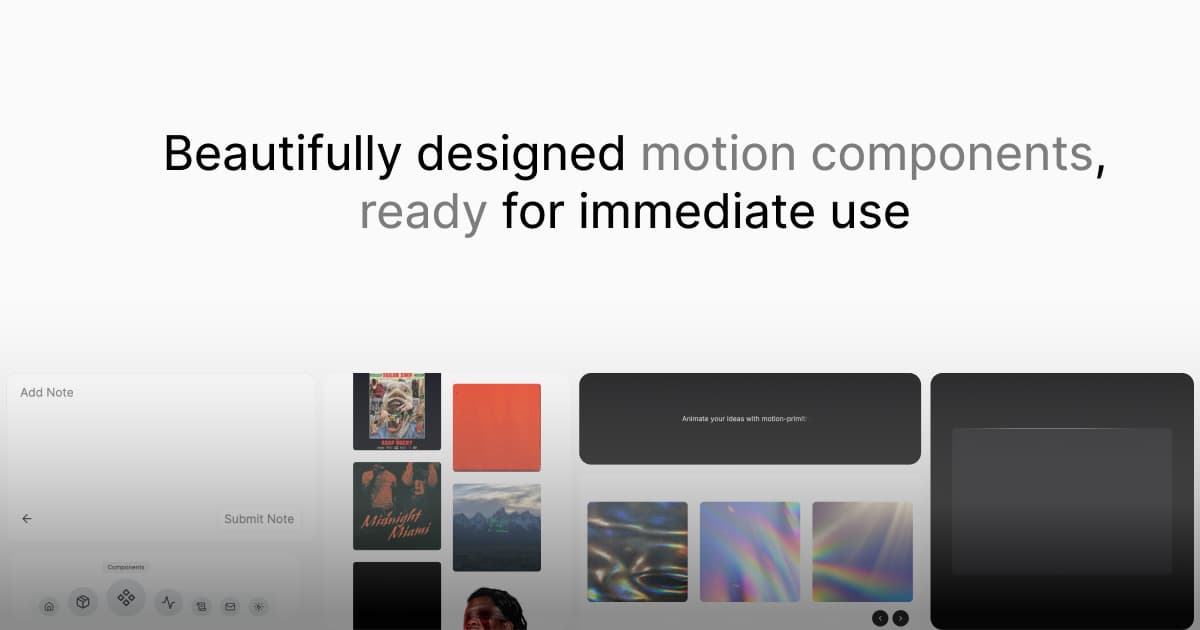
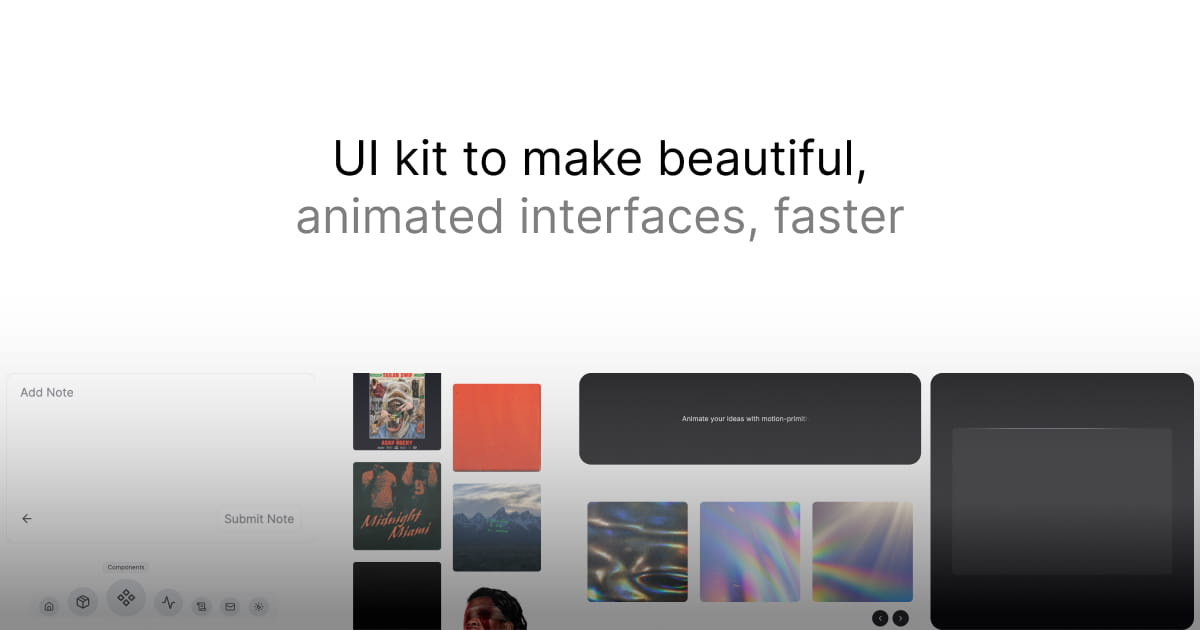
feat: add image comparison (#77)
* feat: add image comparison with doc and example

* feat: create file for image-comparison examples

* feat: update heading, open-graph-image

* feat: update image, example image-comparison

* feat: update sizes examples image-comparison

Changed region(s): [[0.1233, 0.2111, 0.925, 0.3921]]

diff --git a/components/core/image-comparison.tsx b/components/core/image-comparison.tsx
@@ -1,0 +1,147 @@
+'use client';
+import { cn } from '@/lib/utils';
+import { useState, createContext, useContext } from 'react';
+import {
+  motion,
+  MotionValue,
+  SpringOptions,
+  useMotionValue,
+  useSpring,
+  useTransform,
+} from 'framer-motion';
+
+const ImageComparisonContext = createContext<
+  | {
+      sliderPosition: number;
+      setSliderPosition: (pos: number) => void;
+      motionSliderPosition: MotionValue<number>;
+    }
+  | undefined
+>(undefined);
+
+type ImageComparisonProps = {
+  children: React.ReactNode;
+  className?: string;
+  enableHover?: boolean;
+  springOptions?: SpringOptions;
+};
+
+const DEFAULT_SPRING_OPTIONS = {
+  bounce: 0,
+  duration: 0,
+};
+
+function ImageComparison({
+  children,
+  className,
+  enableHover,
+  springOptions,
+}: ImageComparisonProps) {
+  const [isDragging, setIsDragging] = useState(false);
+  const motionValue = useMotionValue(50);
+  const motionSliderPosition = useSpring(
+    motionValue,
+    springOptions ?? DEFAULT_SPRING_OPTIONS
+  );
+  const [sliderPosition, setSliderPosition] = useState(50);
+
+  const handleDrag = (event: React.MouseEvent | React.TouchEvent) => {
+    if (!isDragging && !enableHover) return;
+
+    const containerRect = (
+      event.currentTarget as HTMLElement
+    ).getBoundingClientRect();
+    const x =
+      'touches' in event
+        ? event.touches[0].clientX - containerRect.left
+        : (event as React.MouseEvent).clientX - containerRect.left;
+
+    const percentage = Math.min(
+      Math.max((x / containerRect.width) * 100, 0),
+      100
+    );
+    motionValue.set(percentage);
+    setSliderPosition(percentage);
+  };
+
+  return (
+    <ImageComparisonContext.Provider
+      value={{ sliderPosition, setSliderPosition, motionSliderPosition }}
+    >
+      <div
+        className={cn(
+          'relative select-none overflow-hidden',
+          enableHover && 'cursor-ew-resize',
+          className
+        )}
+        onMouseMove={handleDrag}
+        onMouseDown={() => !enableHover && setIsDragging(true)}
+        onMouseUp={() => !enableHover && setIsDragging(false)}
+        onMouseLeave={() => !enableHover && setIsDragging(false)}
+        onTouchMove={handleDrag}
+        onTouchStart={() => !enableHover && setIsDragging(true)}
+        onTouchEnd={() => !enableHover && setIsDragging(false)}
+      >
+        {children}
+      </div>
+    </ImageComparisonContext.Provider>
+  );
+}
+
+const ImageComparisonImage = ({
+  className,
+  alt,
+  src,
+  position,
+}: {
+  className?: string;
+  alt: string;
+  src: string;
+  position: 'left' | 'right';
+}) => {
+  const { motionSliderPosition } = useContext(ImageComparisonContext)!;
+  const leftClipPath = useTransform(
+    motionSliderPosition,
+    (value) => `inset(0 0 0 ${value}%)`
+  );
+  const rightClipPath = useTransform(
+    motionSliderPosition,
+    (value) => `inset(0 ${100 - value}% 0 0)`
+  );
+
+  return (
+    <motion.img
+      src={src}
+      alt={alt}
+      className={cn('absolute inset-0 h-full w-full object-cover', className)}
+      style={{
+        clipPath: position === 'left' ? leftClipPath : rightClipPath,
+      }}
+    />
+  );
+};
+
+const ImageComparisonSlider = ({
+  className,
+  children,
+}: {
+  className: string;
+  children?: React.ReactNode;
+}) => {
+  const { motionSliderPosition } = useContext(ImageComparisonContext)!;
+
+  const left = useTransform(motionSliderPosition, (value) => `${value}%`);
+
+  return (
+    <motion.div
+      className={cn('absolute bottom-0 top-0 w-1 cursor-ew-resize', className)}
+      style={{
+        left,
+      }}
+    >
+      {children}
+    </motion.div>
+  );
+};
+
+export { ImageComparison, ImageComparisonImage, ImageComparisonSlider };

diff --git a/app/docs/layout.tsx b/app/docs/layout.tsx
@@ -59,7 +59,6 @@ const NAVIGATION: NavigationGroup[] = [
       {
         name: 'Border Trail',
         href: '/docs/border-trail',
-        isNew: true,
       },
       {
         name: 'Carousel',
@@ -97,7 +96,6 @@ const NAVIGATION: NavigationGroup[] = [
       {
         name: 'Text effect',
         href: '/docs/text-effect',
-        isUpdated: true,
       },
       {
         name: 'Text morph',
@@ -124,6 +122,11 @@ const NAVIGATION: NavigationGroup[] = [
         href: '/docs/dock',
       },
       {
+        name: 'Image Comparison',
+        href: '/docs/image-comparison',
+        isNew: true,
+      },
+      {
         name: 'Toolbar Expandable',
         href: '/docs/toolbar-expandable',
       },
@@ -138,7 +141,6 @@ const NAVIGATION: NavigationGroup[] = [
       {
         name: 'Spinning Text',
         href: '/docs/spinning-text',
-        isNew: true,
       },
       {
         name: 'Toolbar Dynamic',

diff --git a/components/examples/image-comparison-custom-slider.tsx b/components/examples/image-comparison-custom-slider.tsx
@@ -1,0 +1,25 @@
+import {
+  ImageComparison,
+  ImageComparisonImage,
+  ImageComparisonSlider,
+} from '../core/image-comparison';
+
+export function ImageComparisonCustomSlider() {
+  return (
+    <ImageComparison className='aspect-[16/10] w-full rounded-lg border border-zinc-200 dark:border-zinc-800'>
+      <ImageComparisonImage
+        src='/mp_dark.png'
+        alt='Motion Primitives Dark'
+        position='left'
+      />
+      <ImageComparisonImage
+        src='/mp_light.png'
+        alt='Motion Primitives Light'
+        position='right'
+      />
+      <ImageComparisonSlider className='w-2 bg-white/50 backdrop-blur-sm transition-colors hover:bg-white/80'>
+        <div className='absolute left-1/2 top-1/2 h-8 w-6 -translate-x-1/2 -translate-y-1/2 rounded-[4px] bg-white' />
+      </ImageComparisonSlider>
+    </ImageComparison>
+  );
+}

diff --git a/components/examples/image-comparison-spring.tsx b/components/examples/image-comparison-spring.tsx
@@ -1,0 +1,29 @@
+import {
+  ImageComparison,
+  ImageComparisonImage,
+  ImageComparisonSlider,
+} from '@/components/core/image-comparison';
+
+export function ImageComparisonSpring() {
+  return (
+    <ImageComparison
+      className='aspect-[16/10] w-full rounded-lg border border-zinc-200 dark:border-zinc-800'
+      enableHover
+      springOptions={{
+        bounce: 0.3,
+      }}
+    >
+      <ImageComparisonImage
+        src='/mp_dark.png'
+        alt='Motion Primitives Dark'
+        position='left'
+      />
+      <ImageComparisonImage
+        src='/mp_light.png'
+        alt='Motion Primitives Light'
+        position='right'
+      />
+      <ImageComparisonSlider className='w-0.5 bg-white/30 backdrop-blur-sm' />
+    </ImageComparison>
+  );
+}

diff --git a/components/examples/image-comparison-hover.tsx b/components/examples/image-comparison-hover.tsx
@@ -1,0 +1,26 @@
+import {
+  ImageComparison,
+  ImageComparisonImage,
+  ImageComparisonSlider,
+} from '@/components/core/image-comparison';
+
+export function ImageComparisonHover() {
+  return (
+    <ImageComparison
+      className='aspect-[16/10] w-full rounded-lg border border-zinc-200 dark:border-zinc-800'
+      enableHover
+    >
+      <ImageComparisonImage
+        src='/mp_dark.png'
+        alt='Motion Primitives Dark'
+        position='left'
+      />
+      <ImageComparisonImage
+        src='/mp_light.png'
+        alt='Motion Primitives Light'
+        position='right'
+      />
+      <ImageComparisonSlider className='bg-white' />
+    </ImageComparison>
+  );
+}

diff --git a/components/examples/image-comparison-basic.tsx b/components/examples/image-comparison-basic.tsx
@@ -1,0 +1,23 @@
+import {
+  ImageComparison,
+  ImageComparisonImage,
+  ImageComparisonSlider,
+} from '@/components/core/image-comparison';
+
+export function ImageComparisonBasic() {
+  return (
+    <ImageComparison className='aspect-[16/10] w-full rounded-lg border border-zinc-200 dark:border-zinc-800'>
+      <ImageComparisonImage
+        src='/mp_dark.png'
+        alt='Motion Primitives Dark'
+        position='left'
+      />
+      <ImageComparisonImage
+        src='/mp_light.png'
+        alt='Motion Primitives Light'
+        position='right'
+      />
+      <ImageComparisonSlider className='bg-white' />
+    </ImageComparison>
+  );
+}

diff --git a/app/page.tsx b/app/page.tsx
@@ -87,7 +87,7 @@ export default function Motion() {
         <section className='flex h-full flex-col items-center justify-center pt-20'>
           <div className='flex w-full max-w-lg flex-col items-center justify-center text-center'>
             <h1 className='relative mb-4 text-4xl font-medium text-zinc-950 dark:text-zinc-50'>
-              UI kit to make beautiful interfaces, faster
+              UI kit to make beautiful, animated interfaces, faster.
             </h1>
             <p className='text-center text-zinc-600 dark:text-zinc-200'>
               Beautifully designed motions components. Easy copy-paste.

diff --git a/app/layout.tsx b/app/layout.tsx
@@ -10,7 +10,7 @@ const inter = Inter({ subsets: ['latin'] });
 export const metadata: Metadata = {
   title: 'Motion-Primitives',
   description:
-    'Motion-Primitives, a collection of open-source, customizable motion components built with Framer Motion and Tailwind CSS. Perfect for enhancing your web projects with beautiful, smooth animations.',
+    'UI kit to make beautiful, animated interfaces, faster. Open-source and customizable.',
 };
 
 export default function RootLayout({
